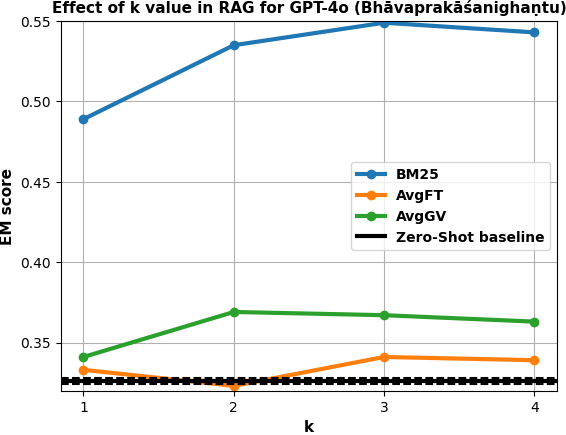
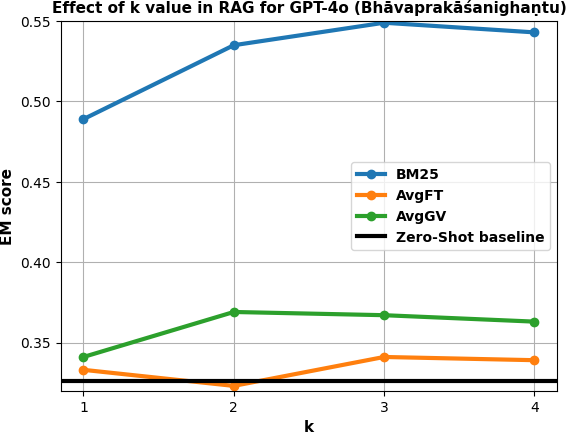
Update: BM25-RAG k tuning plot updated

Changed region(s): [[0.0901, 0.8667, 0.9912, 0.8966]]

diff --git a/SktQA/eval.py b/SktQA/eval.py
@@ -46,8 +46,8 @@ def plot_k(data, pre):
 
 
     plt.axhline(y = avg, color = 'k', linestyle = '-', label='Zero-Shot baseline', linewidth=3) 
-    plt.axhline(y = avg+err, color = 'k', linestyle = '--') 
-    plt.axhline(y = avg-err, color = 'k', linestyle = '--') 
+    #plt.axhline(y = avg+err, color = 'k', linestyle = '--') 
+    #plt.axhline(y = avg-err, color = 'k', linestyle = '--') 
 
     # Labels and title
     plt.xlabel('k', **design)
